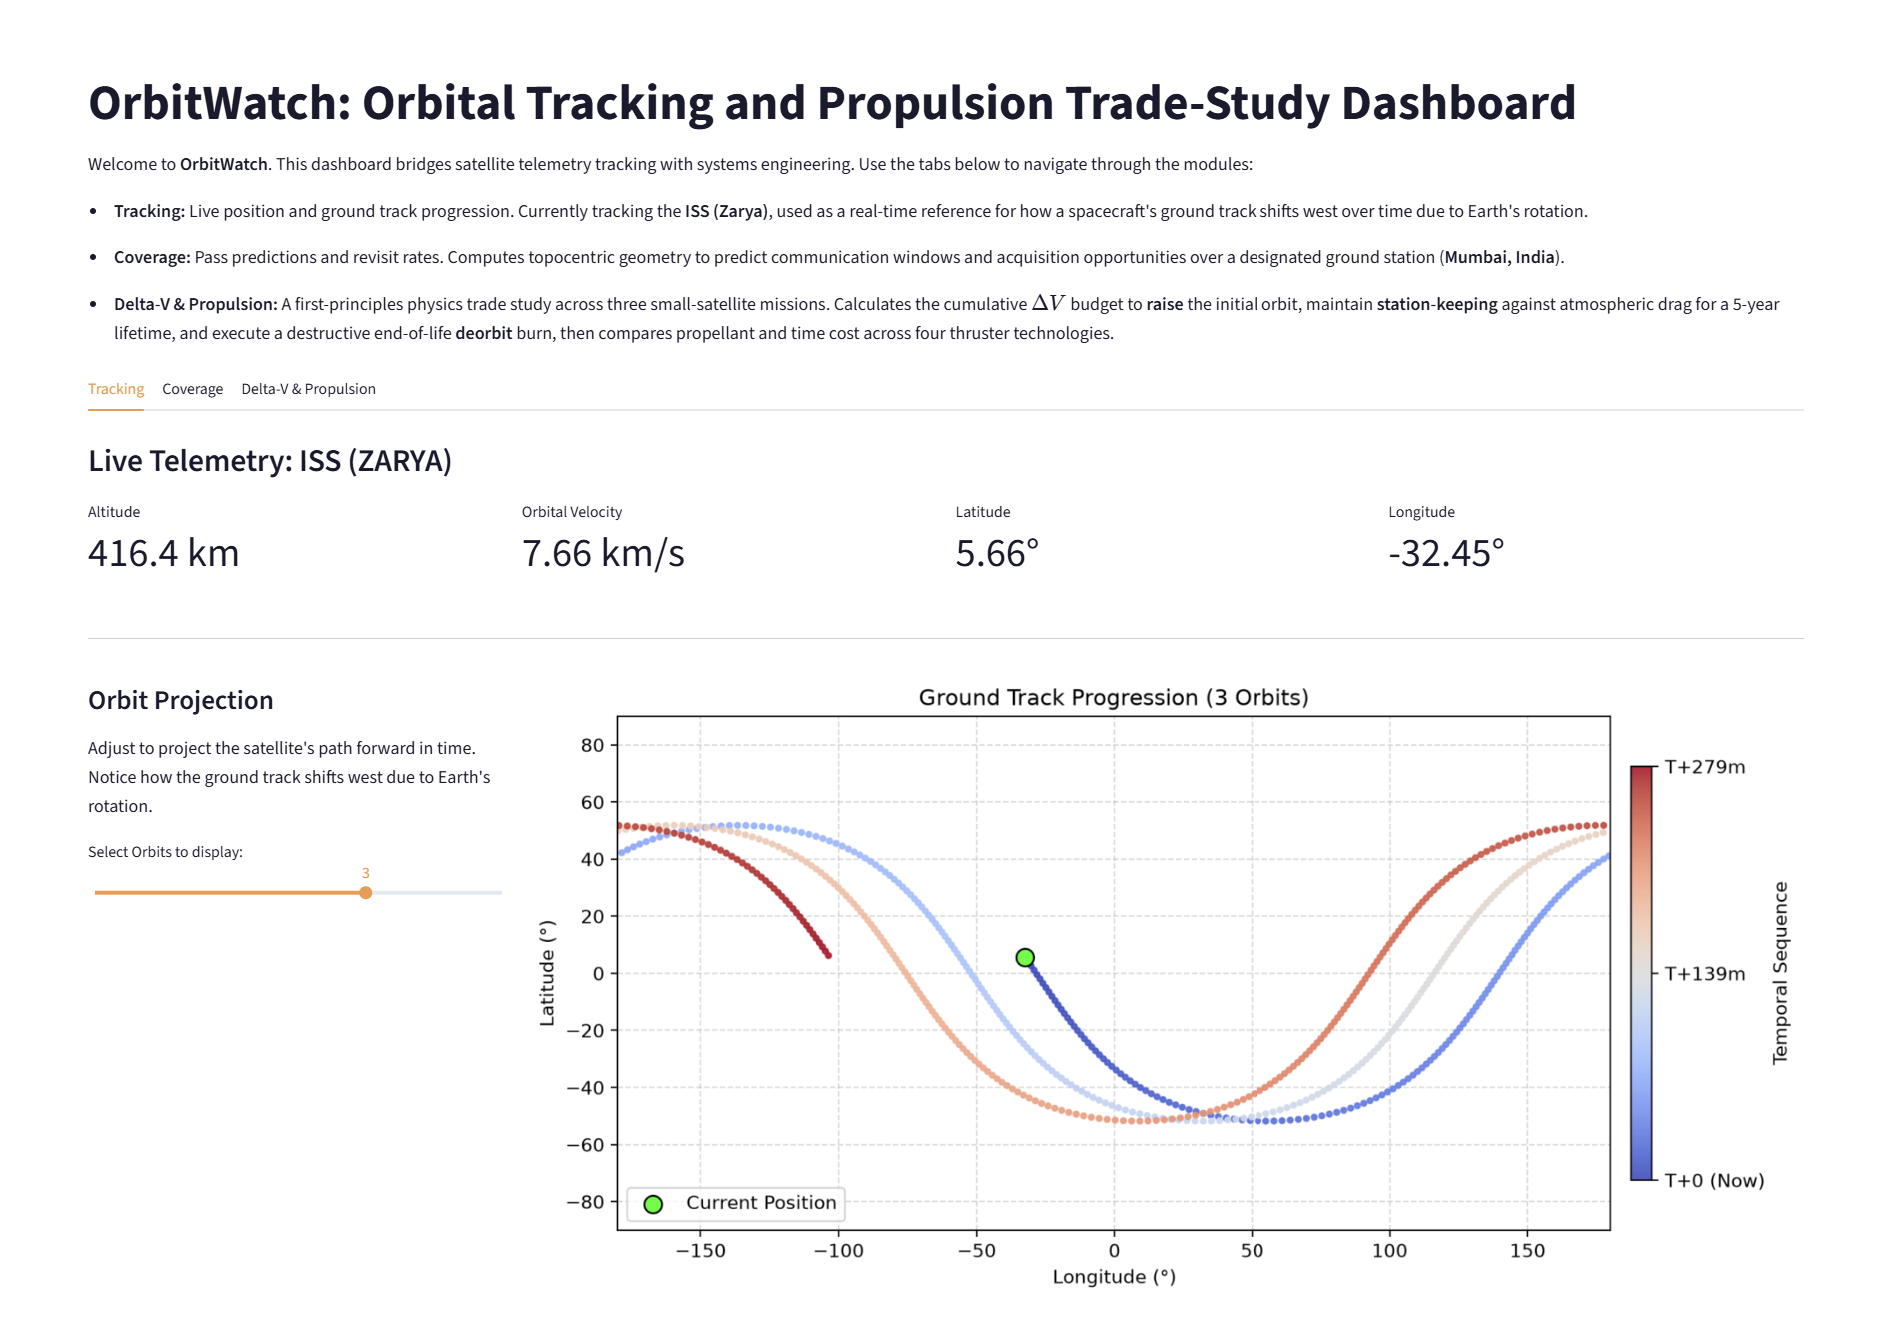
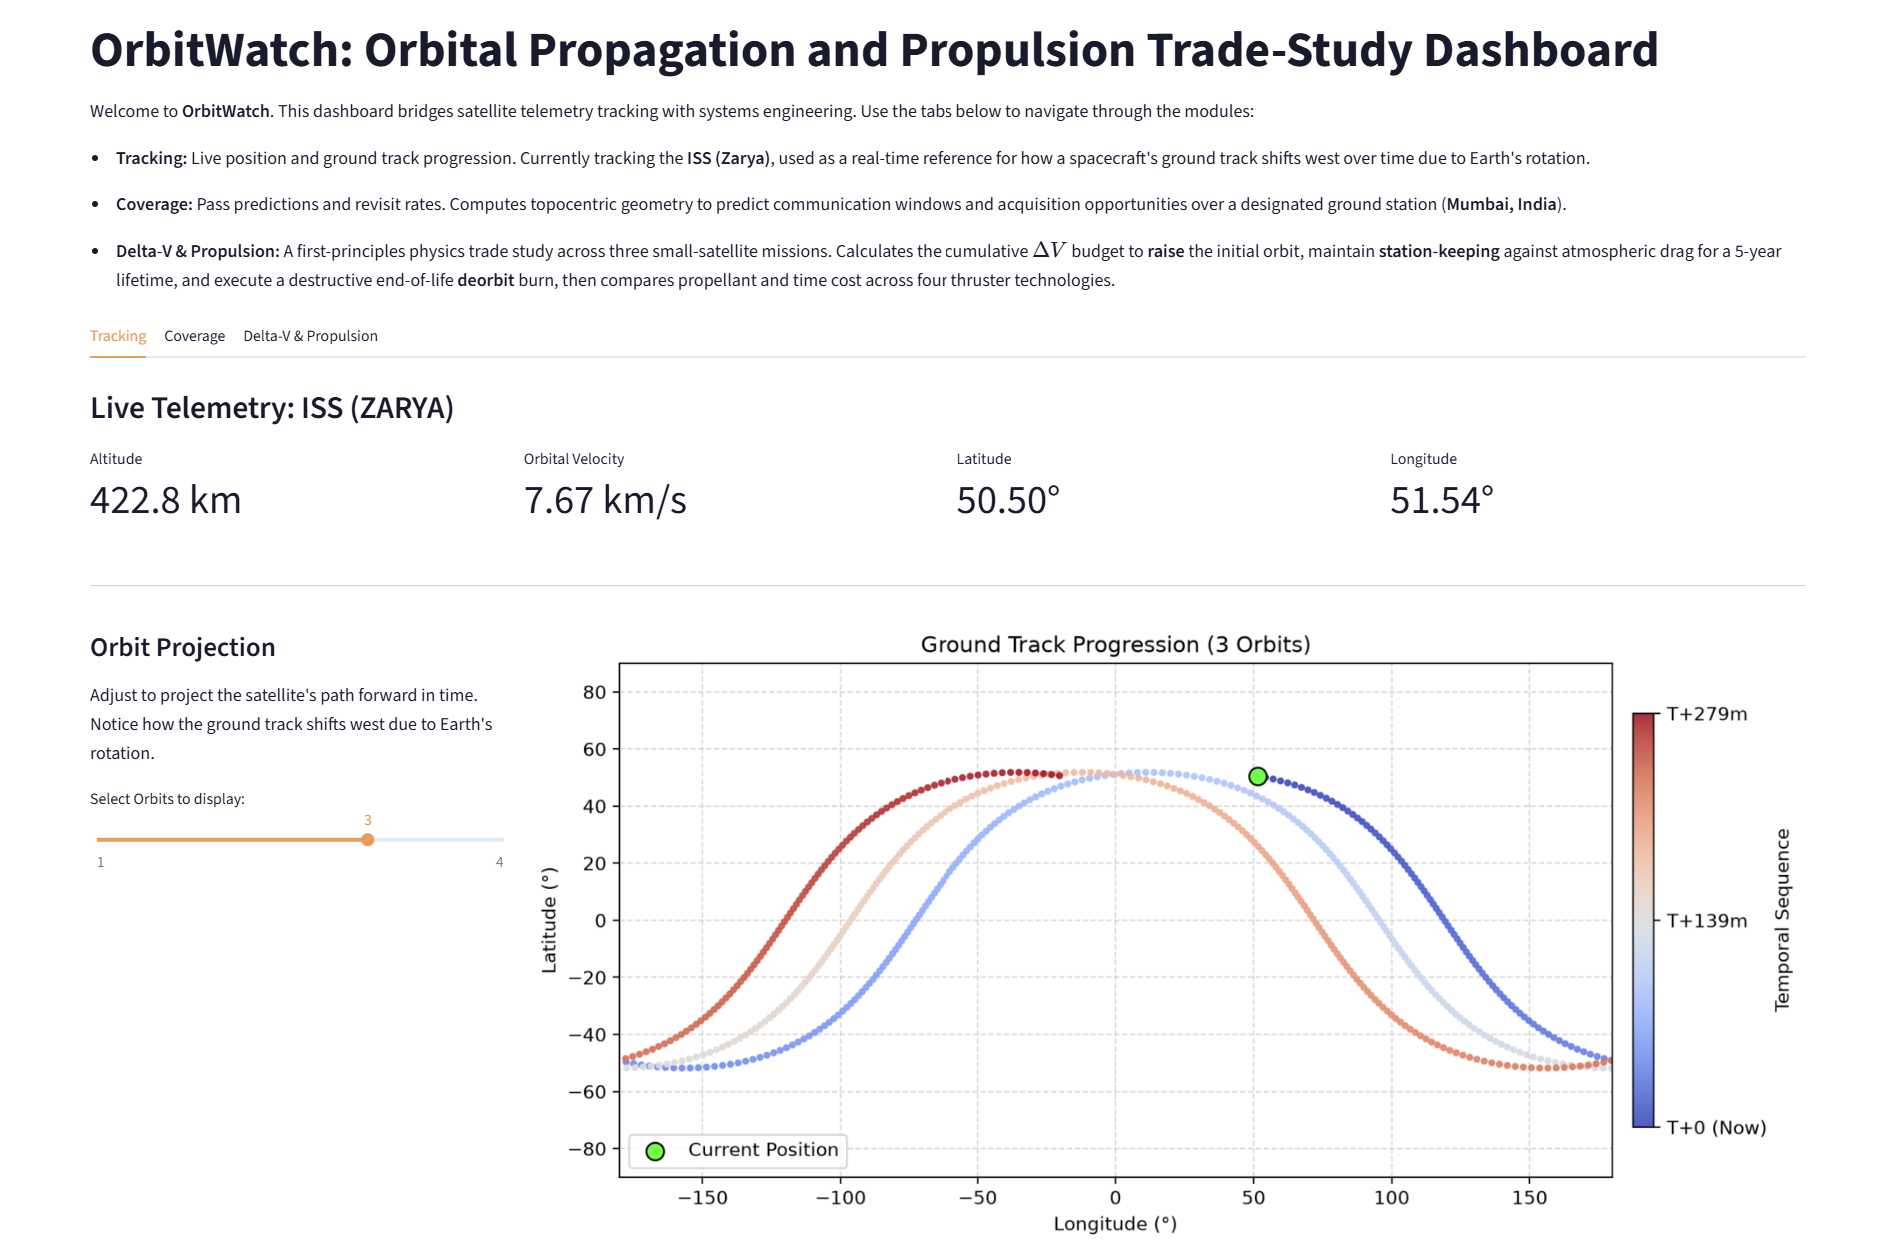
docs: correct title to reflect propagation and update preview image

diff --git a/README.md b/README.md
@@ -1,4 +1,4 @@
-# OrbitWatch: Orbital Tracking and Propulsion Trade-Study Dashboard
+# OrbitWatch: Orbital Propagation and Propulsion Trade-Study Dashboard
 
 **OrbitWatch** is a satellite tracking dashboard built around a specific question: for a small satellite in low Earth orbit, how much does the choice of propulsion system actually cost in propellant and in time?
 
